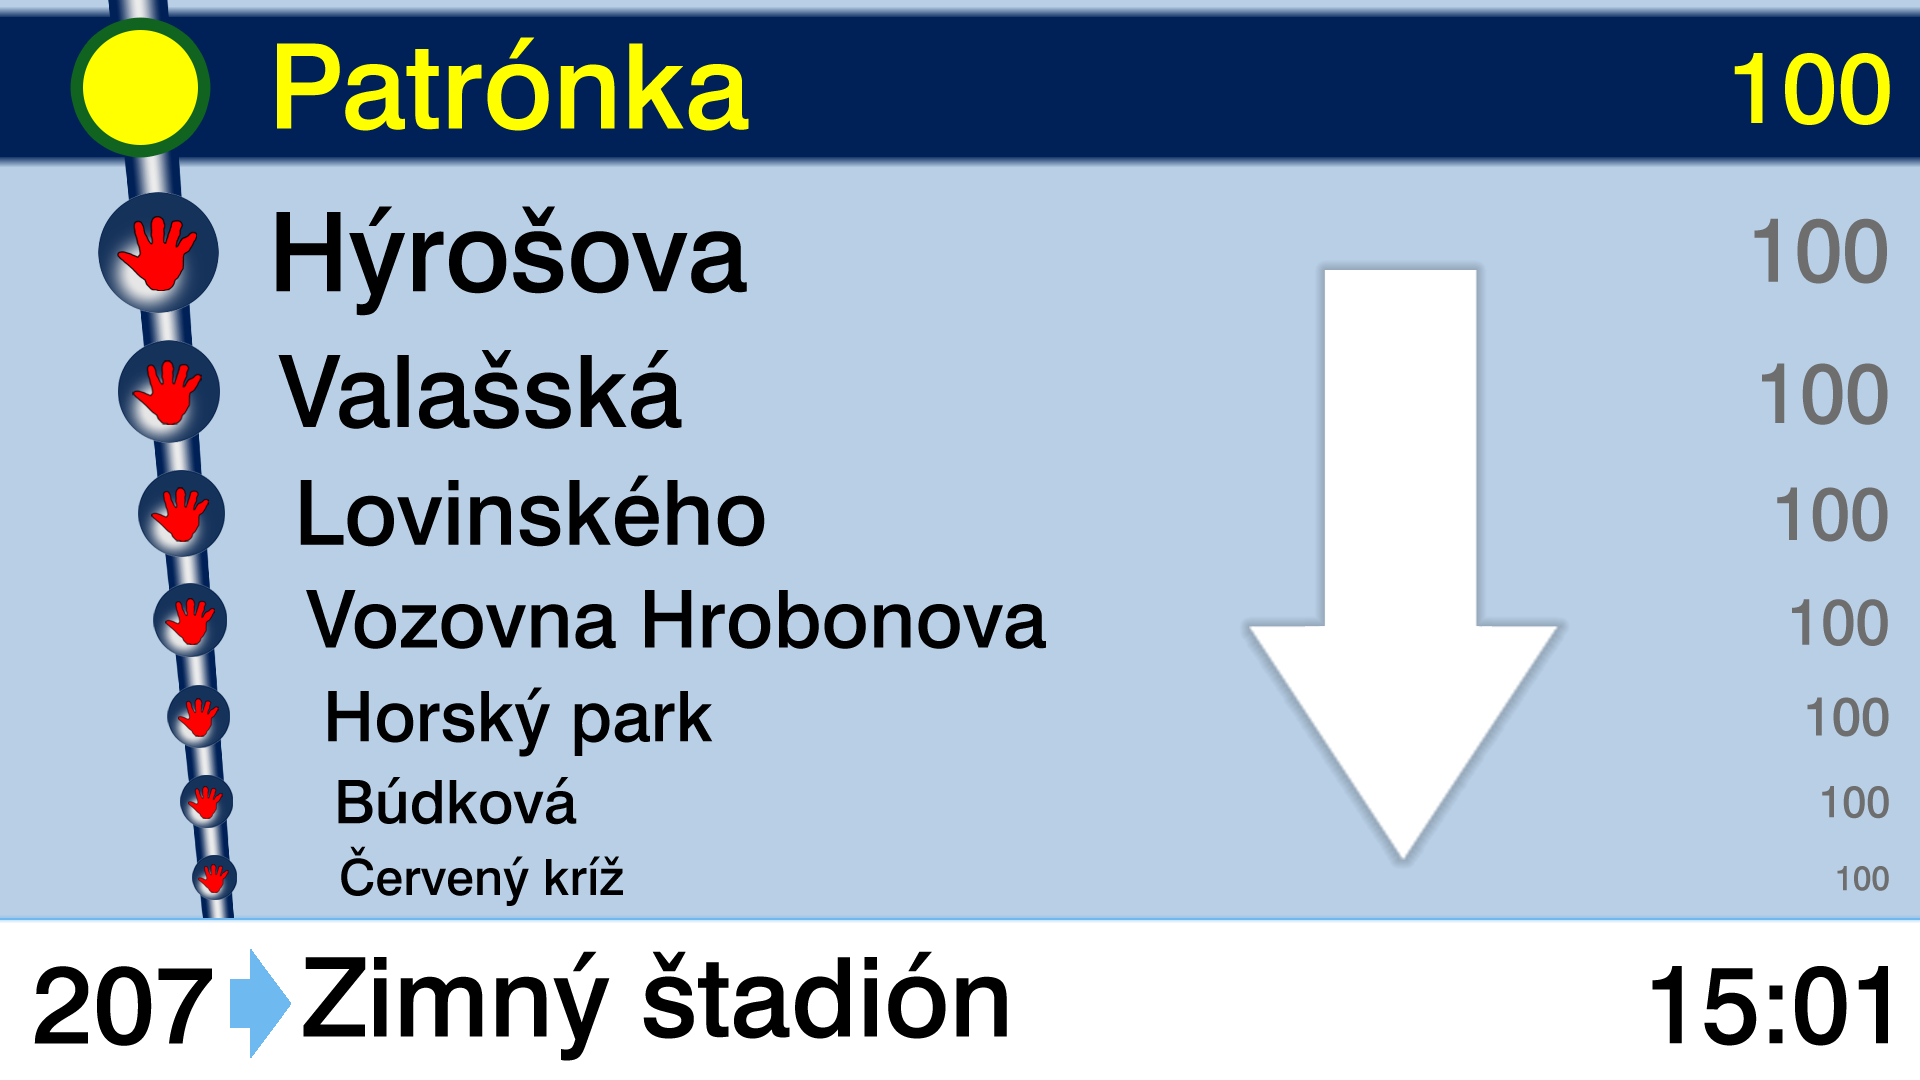
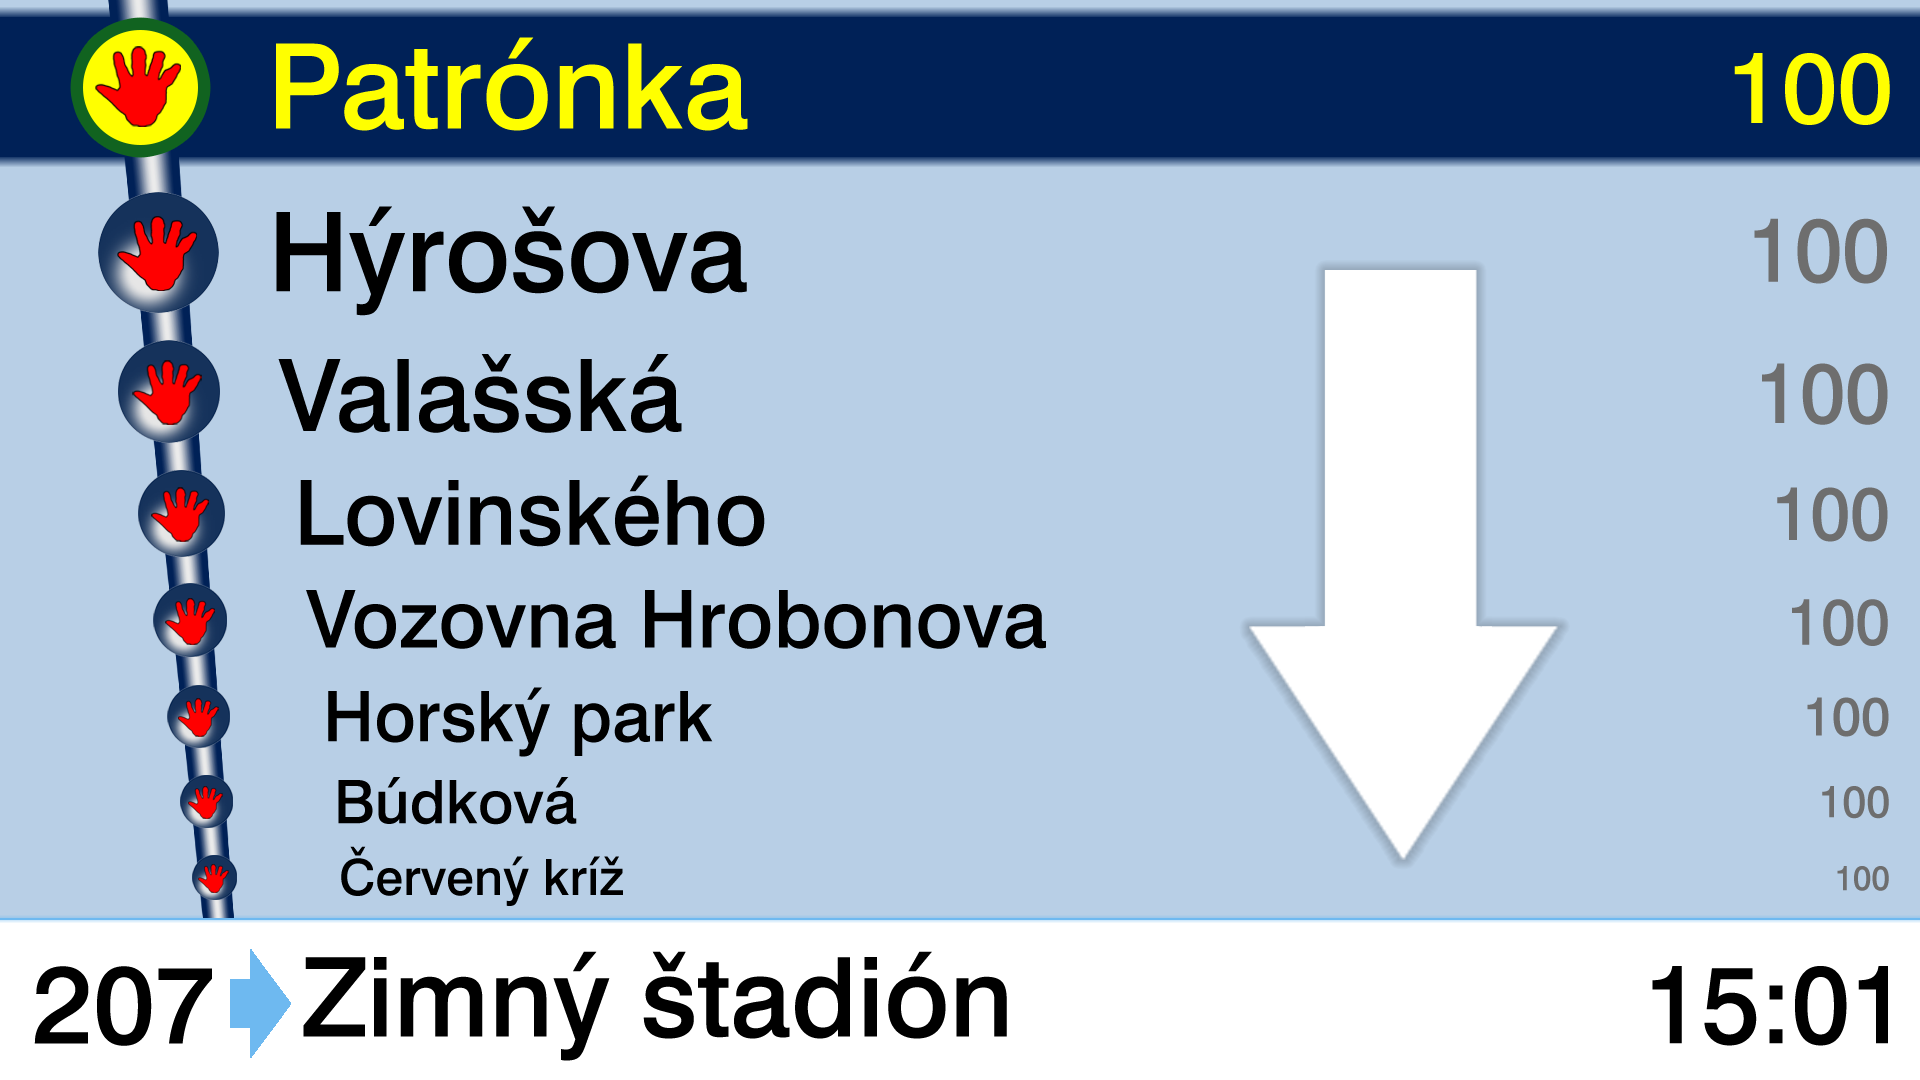
Zastávky na hlásenie

Changed region(s): [[0.1562, 0.3361, 0.3438, 0.3972], [0.1875, 0.0611, 0.375, 0.1222], [0.0312, 0.0306, 0.0938, 0.1222]]

diff --git a/js/window.js b/js/window.js
@@ -2,6 +2,8 @@
 var moment = require('moment');
 var jsonfile = require('jsonfile')
 var MouseTrap = require("mousetrap");
+var player = require("play-sound") (opts = {})
+const storage = require('electron-json-storage');
 const path = require('path');
 const remote = require('electron').remote;
 const ipc = require('electron').ipcRenderer;
@@ -26,6 +28,11 @@ jsonfile.readFile(path.join(__dirname, 'database.json'), function(err, obj) {
     console.log(message);
     sluzba = message;
     loadStops(currentStop, sluzba);
+  })
+  Mousetrap.bind("d", () => {
+    if (obj[sluzba].stops[currentStop].requestStop == true) {
+      document.getElementById("dopyt").style.display = "block";
+    }
   })
   function clearStops() {
     currentStop = 0;
@@ -52,12 +59,22 @@ jsonfile.readFile(path.join(__dirname, 'database.json'), function(err, obj) {
     document.getElementById("line").innerHTML = obj[sluzba].lineNumber;
     document.getElementById("final_stop").innerHTML = obj[sluzba].finalStop;
     if (obj[sluzba].stops[currentStop]) {
+      if (obj[sluzba].stops[currentStop].requestStop == true) {
+        document.getElementById("next_stop_request").style.display = "block";
+      } else {
+        document.getElementById("next_stop_request").style.display = "none";
+      }
       document.getElementById("next_stop").innerHTML = obj[sluzba].stops[currentStop].name;
       document.getElementById("next_stop_zone").innerHTML = obj[sluzba].stops[currentStop].zone;
     } else {
       clearStops();
     }
     if (obj[sluzba].stops[currentStop + 1]) {
+      if (obj[sluzba].stops[currentStop + 1].requestStop == true) {
+        document.getElementById("next_stop_1_request").style.display = "block";
+      } else {
+        document.getElementById("next_stop_1_request").style.display = "none";
+      }
       document.getElementById("next_stop_1").innerHTML = obj[sluzba].stops[currentStop + 1].name;
       document.getElementById("next_stop_1_zone").innerHTML = obj[sluzba].stops[currentStop + 1].zone;
     } else {
@@ -65,6 +82,11 @@ jsonfile.readFile(path.join(__dirname, 'database.json'), function(err, obj) {
       document.getElementById("next_stop_1_zone").innerHTML = "";
     }
     if (obj[sluzba].stops[currentStop + 2]) {
+      if (obj[sluzba].stops[currentStop + 2].requestStop == true) {
+        document.getElementById("next_stop_2_request").style.display = "block";
+      } else {
+        document.getElementById("next_stop_2_request").style.display = "none";
+      }
       document.getElementById("next_stop_2").innerHTML = obj[sluzba].stops[currentStop + 2].name;
       document.getElementById("next_stop_2_zone").innerHTML = obj[sluzba].stops[currentStop + 2].zone;
     } else {
@@ -72,6 +94,11 @@ jsonfile.readFile(path.join(__dirname, 'database.json'), function(err, obj) {
       document.getElementById("next_stop_2_zone").innerHTML = "";
     }
     if (obj[sluzba].stops[currentStop + 3]) {
+      if (obj[sluzba].stops[currentStop + 3].requestStop == true) {
+        document.getElementById("next_stop_3_request").style.display = "block";
+      } else {
+        document.getElementById("next_stop_3_request").style.display = "none";
+      }
       document.getElementById("next_stop_3").innerHTML = obj[sluzba].stops[currentStop + 3].name;
       document.getElementById("next_stop_3_zone").innerHTML = obj[sluzba].stops[currentStop + 3].zone;
     } else {
@@ -79,6 +106,11 @@ jsonfile.readFile(path.join(__dirname, 'database.json'), function(err, obj) {
       document.getElementById("next_stop_3_zone").innerHTML = "";
     }
     if (obj[sluzba].stops[currentStop + 4]) {
+      if (obj[sluzba].stops[currentStop + 4].requestStop == true) {
+        document.getElementById("next_stop_4_request").style.display = "block";
+      } else {
+        document.getElementById("next_stop_4_request").style.display = "none";
+      }
       document.getElementById("next_stop_4").innerHTML = obj[sluzba].stops[currentStop + 4].name;
       document.getElementById("next_stop_4_zone").innerHTML = obj[sluzba].stops[currentStop + 4].zone;
     } else {
@@ -86,6 +118,11 @@ jsonfile.readFile(path.join(__dirname, 'database.json'), function(err, obj) {
       document.getElementById("next_stop_4_zone").innerHTML = "";
     }
     if (obj[sluzba].stops[currentStop + 5]) {
+      if (obj[sluzba].stops[currentStop + 5].requestStop == true) {
+        document.getElementById("next_stop_5_request").style.display = "block";
+      } else {
+        document.getElementById("next_stop_5_request").style.display = "none";
+      }
       document.getElementById("next_stop_5").innerHTML = obj[sluzba].stops[currentStop + 5].name;
       document.getElementById("next_stop_5_zone").innerHTML = obj[sluzba].stops[currentStop + 5].zone;
     } else {
@@ -93,6 +130,11 @@ jsonfile.readFile(path.join(__dirname, 'database.json'), function(err, obj) {
       document.getElementById("next_stop_5_zone").innerHTML = "";
     }
     if (obj[sluzba].stops[currentStop + 6]) {
+      if (obj[sluzba].stops[currentStop + 6].requestStop == true) {
+        document.getElementById("next_stop_6_request").style.display = "block";
+      } else {
+        document.getElementById("next_stop_6_request").style.display = "none";
+      }
       document.getElementById("next_stop_6").innerHTML = obj[sluzba].stops[currentStop + 6].name;
       document.getElementById("next_stop_6_zone").innerHTML = obj[sluzba].stops[currentStop + 6].zone;
     } else {
@@ -100,6 +142,11 @@ jsonfile.readFile(path.join(__dirname, 'database.json'), function(err, obj) {
       document.getElementById("next_stop_6_zone").innerHTML = "";
     }
     if (obj[sluzba].stops[currentStop + 7]) {
+      if (obj[sluzba].stops[currentStop + 7].requestStop == true) {
+        document.getElementById("next_stop_7_request").style.display = "block";
+      } else {
+        document.getElementById("next_stop_7_request").style.display = "none";
+      }
       document.getElementById("next_stop_7").innerHTML = obj[sluzba].stops[currentStop + 7].name;
       document.getElementById("next_stop_7_zone").innerHTML = obj[sluzba].stops[currentStop + 7].zone;
     } else {
@@ -109,10 +156,10 @@ jsonfile.readFile(path.join(__dirname, 'database.json'), function(err, obj) {
   }
 
   MouseTrap.bind("q", () => {
+    document.getElementById("dopyt").style.display = "none";
     currentStop++;
     loadStops(currentStop, sluzba);
     // Hlásenia
-    var player = require("play-sound") (opts = {})
     player.play(path.join(__dirname, 'announcements/nextStop.mp3'), function(err){
       if (err) throw err
       try {

diff --git a/index.html b/index.html
@@ -6,22 +6,32 @@
   <link rel="stylesheet" href="css/mainWindow.css">
 </head>
 <body>
-  <!-- ZASTÁVKY -->
+  <img id="dopyt" src="images/dopyt.png" alt="dopyt">
+  <img id="next_stop_request" src="images/requestStop.png" alt="requestStop">
+  <img id="next_stop_1_request" src="images/requestStop.png" alt="requestStop">
+  <img id="next_stop_2_request" src="images/requestStop.png" alt="requestStop">
+  <img id="next_stop_3_request" src="images/requestStop.png" alt="requestStop">
+  <img id="next_stop_4_request" src="images/requestStop.png" alt="requestStop">
+  <img id="next_stop_5_request" src="images/requestStop.png" alt="requestStop">
+  <img id="next_stop_6_request" src="images/requestStop.png" alt="requestStop">
+  <img id="next_stop_7_request" src="images/requestStop.png" alt="requestStop">
+  <!-- NÁZVY ZASTÁVOK -->
   <span id="next_stop">Patrónka</span>
-  <span id="next_stop_zone">100</span>
   <span id="next_stop_1">Hýrošova</span>
-  <span id="next_stop_1_zone">100</span>
   <span id="next_stop_2">Valašská</span>
-  <span id="next_stop_2_zone">100</span>
   <span id="next_stop_3">Lovinského</span>
-  <span id="next_stop_3_zone">100</span>
   <span id="next_stop_4">Vozovna Hrobonova</span>
-  <span id="next_stop_4_zone">100</span>
   <span id="next_stop_5">Horský park</span>
-  <span id="next_stop_5_zone">100</span>
   <span id="next_stop_6">Búdkova</span>
-  <span id="next_stop_6_zone">100</span>
   <span id="next_stop_7">Červený kríž</span>
+  <!-- ZÓNY -->
+  <span id="next_stop_zone">100</span>
+  <span id="next_stop_1_zone">100</span>
+  <span id="next_stop_2_zone">100</span>
+  <span id="next_stop_3_zone">100</span>
+  <span id="next_stop_4_zone">100</span>
+  <span id="next_stop_5_zone">100</span>
+  <span id="next_stop_6_zone">100</span>
   <span id="next_stop_7_zone">100</span>
   <!-- SPODNÁ ČASŤ -->
   <span id="line">207</span>

diff --git a/css/mainWindow.css b/css/mainWindow.css
@@ -31,6 +31,77 @@ body {
   bottom: 1vh;
   right: 2vh;
 }
+#dopyt {
+  position: absolute;
+  left: 0vh;
+  top: 0.6vh;
+  display: none;
+  z-index: 1;
+}
+#next_stop_request {
+  display: none;
+  position: absolute;
+  width: 8vh;
+  height: auto;
+  top: 4.2vh;
+  left: 9vh;
+}
+#next_stop_1_request {
+  display: none;
+  position: absolute;
+  width: 8vh;
+  height: auto;
+  top: 19.4vh;
+  left: 10.6vh;
+}
+#next_stop_2_request {
+  display: none;
+  position: absolute;
+  width: 6.8vh;
+  height: auto;
+  top: 33vh;
+  left: 12vh;
+}
+#next_stop_3_request {
+  display: none;
+  position: absolute;
+  width: 5.8vh;
+  height: auto;
+  top: 44.8vh;
+  left: 13.6vh;
+}
+#next_stop_4_request {
+  display: none;
+  position: absolute;
+  width: 5vh;
+  height: auto;
+  top: 55vh;
+  left: 15vh;
+}
+#next_stop_5_request {
+  display: none;
+  position: absolute;
+  width: 4vh;
+  height: auto;
+  top: 64.6vh;
+  left: 16.3vh;
+}
+#next_stop_6_request {
+  display: none;
+  position: absolute;
+  width: 3.1vh;
+  height: auto;
+  top: 72.8vh;
+  left: 17.4vh;
+}
+#next_stop_7_request {
+  display: none;
+  position: absolute;
+  width: 2.9vh;
+  height: auto;
+  top: 80vh;
+  left: 18.2vh;
+}
 #next_stop {
   position: absolute;
   color: #ffff00;
@@ -39,6 +110,7 @@ body {
   float: left;
   top: 1.5vh;
   left: 25vh;
+  z-index: 2;
 }
 #next_stop_zone {
   position: absolute;
@@ -48,6 +120,7 @@ body {
   float: right;
   top: 2vh;
   right: 2.3vh;
+  z-index: 2;
 }
 #next_stop_1 {
   position: absolute;
@@ -71,10 +144,10 @@ body {
   position: absolute;
   color: black;
   font-family: "Swis721 Md BT";
-  font-size: 9vh;
+  font-size: 9.2vh;
   float: left;
   top: 31vh;
-  left: 26vh;
+  left: 25.6vh;
 }
 #next_stop_2_zone {
   position: absolute;
